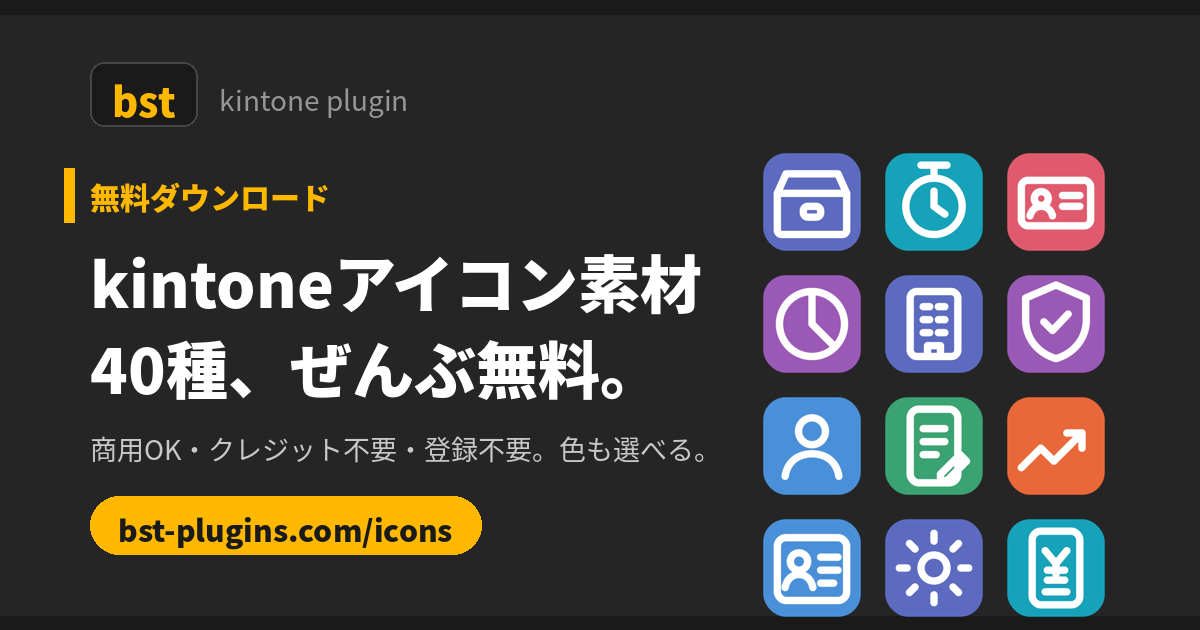
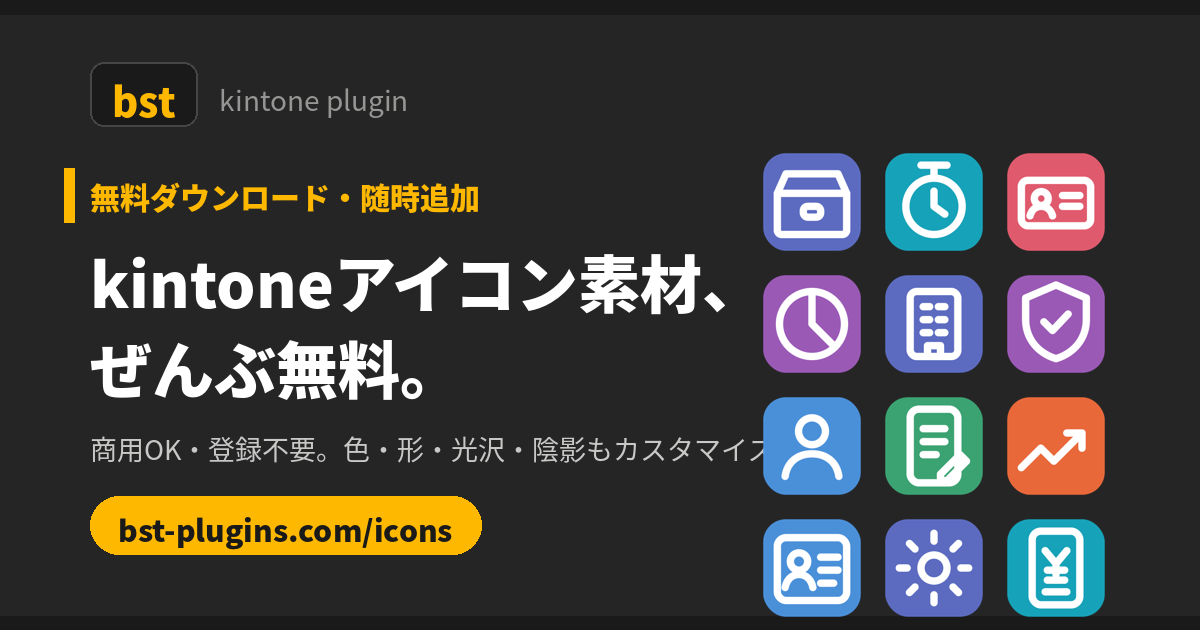
Add files via upload

diff --git a/icons.html b/icons.html
@@ -3,12 +3,14 @@
 <head>
 <meta charset="UTF-8">
 <meta name="viewport" content="width=device-width, initial-scale=1">
-<title>kintoneアプリアイコン素材 40種 無料配布（商用可・登録不要）｜bst</title>
-<meta name="description" content="kintoneのアプリアイコンにそのまま使える、フラットで見やすいアイコン素材40種を無料配布。商用利用OK・クレジット不要・登録不要。色変更してPNGダウンロードも可能。">
+<title>kintoneアプリアイコン素材 無料配布（商用可・カスタマイズ可・随時追加）｜bst</title>
+<meta name="description" content="kintoneのアプリアイコンにそのまま使える、フラットで見やすいアイコン素材を無料配布。商用利用OK・クレジット不要・登録不要。色・形・グラデーション・光沢・陰影を選んでPNG/SVGダウンロード。ラインナップは随時追加。">
 <link rel="canonical" href="https://bst-plugins.com/icons.html">
-<meta property="og:title" content="kintoneアプリアイコン素材 40種 無料配布｜bst">
-<meta property="og:description" content="商用可・登録不要。色を選んでワンクリックでダウンロード。kintoneのアプリ一覧が見違えます。">
+<meta property="og:title" content="kintoneアプリアイコン素材 無料配布（カスタマイズ可）｜bst">
+<meta property="og:description" content="商用OK・登録不要。色・形・光沢・陰影を選んで1クリックでダウンロード。ラインナップは随時追加。">
 <meta property="og:image" content="https://bst-plugins.com/og-icons.png">
+<meta property="og:image:width" content="1200">
+<meta property="og:image:height" content="630">
 <meta property="og:url" content="https://bst-plugins.com/icons.html">
 <meta property="og:type" content="website">
 <meta name="twitter:card" content="summary_large_image">
@@ -23,7 +25,7 @@
   gtag('config', 'G-XXXXXXXXXX');
   document.addEventListener('click', function(e){
     var a = e.target.closest && e.target.closest('a[href$=".zip"], .ic-dl');
-    if(a){ gtag('event', 'icon_download', { item: a.dataset && a.dataset.key || a.getAttribute('href') }); }
+    if(a){ gtag('event', 'icon_download', { item: (a.dataset && a.dataset.key) || a.getAttribute('href') }); }
   });
 </script>
 ▲▲ GA4ここまで ▲▲ -->
@@ -42,9 +44,10 @@ header{position:sticky;top:0;background:rgba(251,251,248,.92);backdrop-filter:bl
 .hero{padding:52px 0 34px;text-align:center;}
 .hero .kick{font-size:12.5px;font-weight:700;letter-spacing:.08em;color:var(--amber-d);}
 .hero h1{font-size:clamp(26px,4.4vw,40px);font-weight:900;letter-spacing:-.01em;margin:8px 0 10px;}
-.hero p{color:var(--mut);font-size:15px;max-width:640px;margin:0 auto;}
+.hero p{color:var(--mut);font-size:15px;max-width:660px;margin:0 auto;}
 .badges{display:flex;gap:10px;justify-content:center;flex-wrap:wrap;margin-top:16px;}
 .badge{background:#fff;border:1px solid var(--line);border-radius:999px;font-size:12.5px;font-weight:700;padding:7px 16px;}
+.badge.hl{background:var(--ink);color:var(--amber);border-color:var(--ink);}
 .dlrow{display:flex;gap:12px;justify-content:center;flex-wrap:wrap;margin:22px 0 6px;}
 .btn{display:inline-flex;align-items:center;gap:8px;border-radius:999px;font-weight:700;font-size:15px;padding:14px 26px;text-decoration:none;border:2px solid transparent;}
 .btn--amber{background:var(--amber);color:var(--ink);}
@@ -61,21 +64,30 @@ header{position:sticky;top:0;background:rgba(251,251,248,.92);backdrop-filter:bl
 .card .nm{font-size:12.5px;font-weight:700;margin-top:8px;}
 .card .ct{font-size:10.5px;color:var(--mut);}
 .count{font-size:12.5px;color:var(--mut);margin-bottom:10px;}
-/* modal */
-.ov{position:fixed;inset:0;background:rgba(37,37,37,.55);display:none;align-items:center;justify-content:center;z-index:200;padding:20px;}
+/* customizer modal */
+.ov{position:fixed;inset:0;background:rgba(37,37,37,.55);display:none;align-items:center;justify-content:center;z-index:200;padding:16px;}
 .ov.show{display:flex;}
-.modal{background:#fff;border-radius:20px;max-width:420px;width:100%;padding:28px;text-align:center;}
-.modal svg{width:120px;height:120px;}
-.modal h3{font-size:17px;font-weight:900;margin:10px 0 2px;}
-.modal .ct{font-size:12px;color:var(--mut);margin-bottom:14px;}
-.pal{display:flex;gap:8px;justify-content:center;flex-wrap:wrap;margin-bottom:18px;}
-.sw{width:30px;height:30px;border-radius:9px;cursor:pointer;border:3px solid transparent;}
+.modal{background:#fff;border-radius:20px;max-width:640px;width:100%;padding:26px;display:grid;grid-template-columns:200px 1fr;gap:24px;max-height:92vh;overflow:auto;}
+.mprev{text-align:center;}
+.mprev svg{width:160px;height:160px;filter:drop-shadow(0 8px 18px rgba(37,37,37,.14));}
+.mprev h3{font-size:16px;font-weight:900;margin-top:10px;}
+.mprev .ct{font-size:11.5px;color:var(--mut);}
+.opt{margin-bottom:14px;}
+.opt .lb{font-size:11.5px;font-weight:900;color:var(--mut);letter-spacing:.05em;margin-bottom:6px;}
+.pal{display:flex;gap:7px;flex-wrap:wrap;align-items:center;}
+.sw{width:27px;height:27px;border-radius:8px;cursor:pointer;border:3px solid transparent;}
 .sw.on{border-color:var(--ink);}
-.mrow{display:flex;gap:10px;justify-content:center;flex-wrap:wrap;}
+.custcol{width:27px;height:27px;padding:0;border:1.5px dashed var(--line);border-radius:8px;background:#fff;cursor:pointer;}
+.segs{display:flex;gap:6px;flex-wrap:wrap;}
+.seg{border:1.5px solid var(--line);background:#fff;border-radius:999px;padding:6px 13px;font-size:12px;font-weight:700;color:var(--mut);cursor:pointer;font-family:inherit;}
+.seg.on{background:var(--ink);color:#fff;border-color:var(--ink);}
+.mrow{display:flex;gap:10px;flex-wrap:wrap;margin-top:4px;align-items:center;}
 .mbtn{border:none;border-radius:999px;font-weight:700;font-size:13.5px;padding:11px 20px;cursor:pointer;font-family:inherit;}
 .mbtn.p{background:var(--amber);}
 .mbtn.g{background:#fff;border:1.5px solid var(--line);}
-.close{margin-top:14px;font-size:12.5px;color:var(--mut);cursor:pointer;background:none;border:none;font-family:inherit;}
+.sizesel{border:1.5px solid var(--line);border-radius:999px;padding:9px 12px;font-size:12.5px;font-weight:700;font-family:inherit;background:#fff;}
+.close{position:absolute;top:14px;right:18px;font-size:20px;color:var(--mut);cursor:pointer;background:none;border:none;}
+.modalwrap{position:relative;}
 .howto{background:var(--paper2);border-top:1px solid var(--line);border-bottom:1px solid var(--line);padding:44px 0;margin-top:40px;}
 .howto h2, .cta-sec h2{font-size:clamp(20px,3vw,28px);font-weight:900;margin-bottom:16px;}
 .steps{display:grid;grid-template-columns:repeat(auto-fit,minmax(230px,1fr));gap:14px;}
@@ -97,7 +109,7 @@ header{position:sticky;top:0;background:rgba(251,251,248,.92);backdrop-filter:bl
 footer{border-top:1px solid var(--line);padding:28px 0 36px;font-size:12.5px;color:var(--mut);}
 .frow{display:flex;gap:18px;flex-wrap:wrap;}
 .frow a{text-decoration:none;color:var(--mut);}
-@media(max-width:720px){.cta-card{grid-template-columns:1fr;}}
+@media(max-width:720px){.cta-card{grid-template-columns:1fr;}.modal{grid-template-columns:1fr;}}
 </style>
 </head>
 <body>
@@ -111,14 +123,14 @@ footer{border-top:1px solid var(--line);padding:28px 0 36px;font-size:12.5px;col
 
 <section class="hero"><div class="wrap">
   <div class="kick">FREE DOWNLOAD</div>
-  <h1>kintoneアプリアイコン素材<br>40種、ぜんぶ無料。</h1>
-  <p>「どのアプリか、パッと見で分からない」を解決する、フラットで見やすいアイコンセット。色を選んで1クリックでダウンロード。kintoneのポータルが見違えます。</p>
-  <div class="badges"><span class="badge">商用利用OK</span><span class="badge">クレジット不要</span><span class="badge">登録・メール不要</span><span class="badge">8色から選べる</span></div>
+  <h1>kintoneアプリアイコン素材、<br>ぜんぶ無料。</h1>
+  <p>「どのアプリか、パッと見で分からない」を解決する、フラットで見やすいアイコン集。<b>色・形・光沢・陰影まで自分好みにカスタマイズ</b>して、1クリックでダウンロードできます。</p>
+  <div class="badges"><span class="badge hl">現在 <span id="total">—</span> 種・随時追加</span><span class="badge">商用利用OK</span><span class="badge">クレジット不要</span><span class="badge">登録・メール不要</span></div>
   <div class="dlrow">
-    <a class="btn btn--amber" href="icons/bst-kintone-icons-png.zip" download>PNG一括ダウンロード（40種）↓</a>
+    <a class="btn btn--amber" href="icons/bst-kintone-icons-png.zip" download>PNG一括ダウンロード ↓</a>
     <a class="btn btn--ghost" href="icons/bst-kintone-icons-svg.zip" download>SVG一括ダウンロード ↓</a>
   </div>
-  <p class="note">個別に色を変えたい場合は、下のアイコンをクリック → 色を選んでダウンロード</p>
+  <p class="note">一括ZIPは標準色・フラットスタイル収録。カスタマイズしたい場合は、下のアイコンをクリック。</p>
 </div></section>
 
 <section><div class="wrap">
@@ -133,12 +145,13 @@ footer{border-top:1px solid var(--line);padding:28px 0 36px;font-size:12.5px;col
   </div>
   <div class="count" id="count"></div>
   <div class="grid" id="grid"></div>
+  <p class="note" style="text-align:left;margin-top:14px;">💡 「こんなアイコンが欲しい」のリクエストは <a href="mailto:[email redacted]?subject=%5Bbst%5D%20アイコンのリクエスト" style="color:var(--amber-d);font-weight:700;">こちら</a> からどうぞ。随時追加していきます。</p>
 </div></section>
 
 <section class="howto"><div class="wrap">
   <h2>kintoneアプリのアイコンを変える方法（30秒）</h2>
   <div class="steps">
-    <div class="step"><b>1. アイコンをダウンロード</b><p>使いたいアイコンをクリックし、色を選んでPNGをダウンロードします。</p></div>
+    <div class="step"><b>1. アイコンをダウンロード</b><p>使いたいアイコンをクリックし、色やスタイルを選んでPNGをダウンロードします。</p></div>
     <div class="step"><b>2. アプリの設定を開く</b><p>kintoneアプリの「設定」→ 左上のアプリアイコンをクリック。</p></div>
     <div class="step"><b>3. 画像をアップロード</b><p>「ファイルを選択」でダウンロードしたPNGを選んで保存。ポータルの一覧が一気に分かりやすくなります。</p></div>
   </div>
@@ -149,6 +162,7 @@ footer{border-top:1px solid var(--line);padding:28px 0 36px;font-size:12.5px;col
   <ul>
     <li>kintoneのアプリアイコン、社内資料、Webサイトなどで商用利用OK（無料）</li>
     <li>クレジット表記・利用報告は不要です</li>
+    <li>色や形のカスタマイズ・加工も自由です</li>
     <li>素材そのものの再配布・販売はご遠慮ください（加工後も同様）</li>
   </ul>
 </div></section>
@@ -170,37 +184,102 @@ footer{border-top:1px solid var(--line);padding:28px 0 36px;font-size:12.5px;col
 
 <footer><div class="wrap">
   <div class="frow">
-    <a href="index.html">ホーム</a><a href="icons.html">無料アイコン</a><a href="tokushoho.html">特定商取引法に基づく表記</a><a href="privacy.html">プライバシーポリシー</a>
+    <a href="index.html">ホーム</a><a href="icons.html">無料アイコン</a><a href="mailto:[email redacted]?subject=%5Bbst%5D%20お問い合わせ">お問い合わせ</a><a href="tokushoho.html">特定商取引法に基づく表記</a><a href="privacy.html">プライバシーポリシー</a>
   </div>
   <div style="margin-top:10px;">© bst — kintoneプラグイン開発</div>
 </div></footer>
 
-<div class="ov" id="ov"><div class="modal">
-  <div id="m-svg"></div>
-  <h3 id="m-name"></h3>
-  <div class="ct" id="m-cat"></div>
-  <div class="pal" id="m-pal"></div>
-  <div class="mrow">
-    <button class="mbtn p ic-dl" id="dl-png">PNGをダウンロード ↓</button>
-    <button class="mbtn g ic-dl" id="dl-svg">SVG ↓</button>
+<div class="ov" id="ov"><div class="modal modalwrap">
+  <button class="close" id="m-close">✕</button>
+  <div class="mprev">
+    <div id="m-svg"></div>
+    <h3 id="m-name"></h3>
+    <div class="ct" id="m-cat"></div>
   </div>
-  <button class="close" id="m-close">閉じる</button>
+  <div>
+    <div class="opt"><div class="lb">カラー</div>
+      <div class="pal" id="m-pal"></div>
+    </div>
+    <div class="opt"><div class="lb">かたち</div>
+      <div class="segs" id="m-shape">
+        <button class="seg on" data-v="round">角丸</button>
+        <button class="seg" data-v="circle">まる</button>
+        <button class="seg" data-v="square">四角</button>
+      </div>
+    </div>
+    <div class="opt"><div class="lb">スタイル（組み合わせOK）</div>
+      <div class="segs">
+        <button class="seg" id="m-grad">グラデーション</button>
+        <button class="seg" id="m-gloss">光沢</button>
+        <button class="seg" id="m-shadow">陰影</button>
+      </div>
+    </div>
+    <div class="opt"><div class="lb">線の太さ</div>
+      <div class="segs" id="m-sw">
+        <button class="seg" data-v="1.4">細め</button>
+        <button class="seg on" data-v="1.7">標準</button>
+        <button class="seg" data-v="2.1">太め</button>
+      </div>
+    </div>
+    <div class="mrow">
+      <button class="mbtn p ic-dl" id="dl-png">PNGをダウンロード ↓</button>
+      <select class="sizesel" id="m-size"><option value="128">128px</option><option value="256" selected>256px</option><option value="512">512px</option></select>
+      <button class="mbtn g ic-dl" id="dl-svg">SVG ↓</button>
+    </div>
+  </div>
 </div></div>
 
 <script>
 const PALETTE = {"blue": "#4A90D9", "orange": "#E8683A", "green": "#3BA272", "amber": "#E6A23C", "purple": "#9B59B6", "red": "#E05A6D", "teal": "#16A2B8", "navy": "#5C6BC0"};
-const STROKE = 'stroke="#fff" stroke-width="1.7" fill="none" stroke-linecap="round" stroke-linejoin="round"';
 const ICONS = [{"key": "customer", "ja": "顧客管理", "cat": "営業", "color": "blue", "inner": "<circle cx=\"12\" cy=\"8.6\" r=\"3.1\"/><path d=\"M5.8 19c.[phone redacted].2s5.[phone redacted]\"/>"}, {"key": "company", "ja": "取引先", "cat": "営業", "color": "navy", "inner": "<rect x=\"6.5\" y=\"4.5\" width=\"11\" height=\"15\" rx=\"1.5\"/><line x1=\"9.5\" y1=\"8\" x2=\"11\" y2=\"8\"/><line x1=\"13\" y1=\"8\" x2=\"14.5\" y2=\"8\"/><line x1=\"9.5\" y1=\"11\" x2=\"11\" y2=\"11\"/><line x1=\"13\" y1=\"11\" x2=\"14.5\" y2=\"11\"/><line x1=\"9.5\" y1=\"14\" x2=\"11\" y2=\"14\"/><line x1=\"13\" y1=\"14\" x2=\"14.5\" y2=\"14\"/><path d=\"M10.5 19.5v-2.5h3v2.5\"/>"}, {"key": "deal", "ja": "案件管理", "cat": "営業", "color": "orange", "inner": "<path d=\"M4 17l4.5-4.5 3 3L18 9\"/><path d=\"M14.5 9H18v3.5\"/>"}, {"key": "estimate", "ja": "見積管理", "cat": "営業", "color": "teal", "inner": "<rect x=\"6.5\" y=\"3.5\" width=\"11\" height=\"17\" rx=\"2\"/><path d=\"M9.5 8l2.5 3 2.5-3\"/><line x1=\"12\" y1=\"11\" x2=\"12\" y2=\"13.5\"/><line x1=\"10\" y1=\"12.5\" x2=\"14\" y2=\"12.5\"/><line x1=\"10\" y1=\"14.8\" x2=\"14\" y2=\"14.8\"/><line x1=\"9.5\" y1=\"17.5\" x2=\"14.5\" y2=\"17.5\"/>"}, {"key": "order", "ja": "受注管理", "cat": "営業", "color": "green", "inner": "<path d=\"M4.5 8h15l-1.5 9.5h-12z\"/><line x1=\"4.5\" y1=\"8\" x2=\"3.5\" y2=\"5\"/><circle cx=\"9\" cy=\"20.3\" r=\"1\"/><circle cx=\"15\" cy=\"20.3\" r=\"1\"/>"}, {"key": "purchase", "ja": "発注管理", "cat": "営業", "color": "amber", "inner": "<path d=\"M20 4L10.5 13.5\"/><path d=\"M20 4l-6 16-3.5-6.5L4 10z\"/>"}, {"key": "contract", "ja": "契約管理", "cat": "営業", "color": "purple", "inner": "<path d=\"M12 3l7 3v5c0 [phone redacted]-9V6z\"/><path d=\"M9.2 11.5l2 2 3.6-3.8\"/>"}, {"key": "bizcard", "ja": "名刺管理", "cat": "営業", "color": "red", "inner": "<rect x=\"4\" y=\"7\" width=\"16\" height=\"10.5\" rx=\"1.5\"/><circle cx=\"8.6\" cy=\"11.2\" r=\"1.6\"/><path d=\"M6 15.2c.[phone redacted].2s2.2.7 2.6 2.2\"/><line x1=\"13.5\" y1=\"10.5\" x2=\"17.5\" y2=\"10.5\"/><line x1=\"13.5\" y1=\"13\" x2=\"17.5\" y2=\"13\"/>"}, {"key": "inquiry", "ja": "問い合わせ", "cat": "営業", "color": "teal", "inner": "<path d=\"M6 5.5h12a2 2 0 0 1 2 2v7a2 2 0 0 1-2 2h-7l-4 3.5v-3.5H6a2 2 0 0 1-2-2v-7a2 2 0 0 1 2-2z\"/><path d=\"M10.4 9.5a1.[phone redacted].6c-.7.4-1 .8-1 1.6\"/><circle cx=\"12\" cy=\"14.6\" r=\"0.35\"/>"}, {"key": "support", "ja": "サポート窓口", "cat": "営業", "color": "navy", "inner": "<path d=\"M5 13v-1.5a7 7 0 0 1 14 0V13\"/><rect x=\"4\" y=\"12.5\" width=\"3\" height=\"4.5\" rx=\"1.5\"/><rect x=\"17\" y=\"12.5\" width=\"3\" height=\"4.5\" rx=\"1.5\"/><path d=\"M18.5 17c0 [phone redacted]\"/>"}, {"key": "task", "ja": "タスク管理", "cat": "業務", "color": "blue", "inner": "<rect x=\"4.5\" y=\"4.5\" width=\"15\" height=\"15\" rx=\"3\"/><path d=\"M8.5 12.2l2.[phone redacted]\"/>"}, {"key": "project", "ja": "プロジェクト", "cat": "業務", "color": "purple", "inner": "<rect x=\"4\" y=\"5.5\" width=\"4.5\" height=\"13\" rx=\"1.5\"/><rect x=\"10\" y=\"5.5\" width=\"4.5\" height=\"8.5\" rx=\"1.5\"/><rect x=\"16\" y=\"5.5\" width=\"4.5\" height=\"11\" rx=\"1.5\"/>"}, {"key": "schedule", "ja": "スケジュール", "cat": "業務", "color": "red", "inner": "<rect x=\"4.5\" y=\"5.5\" width=\"15\" height=\"14\" rx=\"2\"/><line x1=\"4.5\" y1=\"9.5\" x2=\"19.5\" y2=\"9.5\"/><line x1=\"8.5\" y1=\"3.8\" x2=\"8.5\" y2=\"7\"/><line x1=\"15.5\" y1=\"3.8\" x2=\"15.5\" y2=\"7\"/><circle cx=\"12\" cy=\"14.5\" r=\"0.5\"/><circle cx=\"8.5\" cy=\"14.5\" r=\"0.5\"/><circle cx=\"15.5\" cy=\"14.5\" r=\"0.5\"/>"}, {"key": "daily", "ja": "日報", "cat": "業務", "color": "green", "inner": "<rect x=\"6.5\" y=\"3.5\" width=\"11\" height=\"17\" rx=\"2\"/><line x1=\"9.5\" y1=\"8\" x2=\"14.5\" y2=\"8\"/><line x1=\"9.5\" y1=\"11\" x2=\"14.5\" y2=\"11\"/><line x1=\"9.5\" y1=\"14\" x2=\"12.5\" y2=\"14\"/><path d=\"M13.5 18.5l4.[phone redacted].5H13.5z\"/>"}, {"key": "minutes", "ja": "議事録", "cat": "業務", "color": "amber", "inner": "<rect x=\"6.5\" y=\"3.5\" width=\"11\" height=\"17\" rx=\"2\"/><path d=\"M9.5 3.5v3h5v-3\"/><line x1=\"9.5\" y1=\"10.5\" x2=\"14.5\" y2=\"10.5\"/><line x1=\"9.5\" y1=\"13.5\" x2=\"14.5\" y2=\"13.5\"/><line x1=\"9.5\" y1=\"16.5\" x2=\"12.5\" y2=\"16.5\"/>"}, {"key": "meeting", "ja": "会議室予約", "cat": "業務", "color": "teal", "inner": "<circle cx=\"12\" cy=\"12\" r=\"3\"/><circle cx=\"5.5\" cy=\"7\" r=\"1.6\"/><circle cx=\"18.5\" cy=\"7\" r=\"1.6\"/><circle cx=\"5.5\" cy=\"17\" r=\"1.6\"/><circle cx=\"18.5\" cy=\"17\" r=\"1.6\"/>"}, {"key": "workflow", "ja": "稟議・申請", "cat": "業務", "color": "navy", "inner": "<rect x=\"8\" y=\"3.5\" width=\"8\" height=\"4.5\" rx=\"1.5\"/><rect x=\"4\" y=\"15.5\" width=\"6\" height=\"4.5\" rx=\"1.5\"/><rect x=\"14\" y=\"15.5\" width=\"6\" height=\"4.5\" rx=\"1.5\"/><line x1=\"12\" y1=\"8\" x2=\"12\" y2=\"11.5\"/><path d=\"M7 15.5v-2h10v2\"/>"}, {"key": "progress", "ja": "進捗管理", "cat": "業務", "color": "orange", "inner": "<circle cx=\"12\" cy=\"12\" r=\"7.5\"/><path d=\"M12 4.5A7.[phone redacted]\"/><path d=\"M12 8.5v3.5l2.8 2\"/>"}, {"key": "manual", "ja": "マニュアル", "cat": "業務", "color": "blue", "inner": "<path d=\"M12 6c-[phone redacted]-2v13.5c2.[phone redacted]-2V4c-[phone redacted] 2z\"/><line x1=\"12\" y1=\"6\" x2=\"12\" y2=\"19.2\"/>"}, {"key": "inspection", "ja": "点検記録", "cat": "業務", "color": "green", "inner": "<rect x=\"5.5\" y=\"4.5\" width=\"13\" height=\"15.5\" rx=\"2\"/><path d=\"M9 4.5v-1h6v1\"/><path d=\"M8.5 12l2.[phone redacted]\"/><line x1=\"8.5\" y1=\"17\" x2=\"15.5\" y2=\"17\"/>"}, {"key": "inventory", "ja": "在庫管理", "cat": "業務", "color": "amber", "inner": "<path d=\"M4.5 9.5h15V19a1 1 0 0 1-1 1h-13a1 1 0 0 1-1-1z\"/><path d=\"M6 9.5L7.5 5h9L18 9.5\"/><line x1=\"10\" y1=\"13\" x2=\"14\" y2=\"13\"/>"}, {"key": "shipping", "ja": "配送管理", "cat": "業務", "color": "red", "inner": "<rect x=\"3.5\" y=\"7\" width=\"10\" height=\"9\" rx=\"1.5\"/><path d=\"M13.5 10h4l2.5 3v3h-2.5\"/><circle cx=\"7.5\" cy=\"17.8\" r=\"1.6\"/><circle cx=\"16.5\" cy=\"17.8\" r=\"1.6\"/>"}, {"key": "equipment", "ja": "設備管理", "cat": "業務", "color": "navy", "inner": "<circle cx=\"12\" cy=\"12\" r=\"3\"/><line x1=\"18.2\" y1=\"12.0\" x2=\"20\" y2=\"12\"/><line x1=\"5.8\" y1=\"12.0\" x2=\"4\" y2=\"12\"/><line x1=\"12.0\" y1=\"18.2\" x2=\"12\" y2=\"20\"/><line x1=\"12.0\" y1=\"5.8\" x2=\"12\" y2=\"4\"/><line x1=\"16.3834\" y1=\"16.3834\" x2=\"17.656\" y2=\"17.656\"/><line x1=\"7.6166\" y1=\"16.3834\" x2=\"6.344\" y2=\"17.656\"/><line x1=\"16.3834\" y1=\"7.6166\" x2=\"17.656\" y2=\"6.344\"/><line x1=\"7.6166\" y1=\"7.6166\" x2=\"6.344\" y2=\"6.344\"/>"}, {"key": "vehicle", "ja": "車両管理", "cat": "業務", "color": "teal", "inner": "<path d=\"M5 15l1.5-5a2 [phone redacted].5h7.2A2 [phone redacted] 10l1.5 5\"/><rect x=\"4\" y=\"15\" width=\"16\" height=\"3.5\" rx=\"1.5\"/><circle cx=\"7.5\" cy=\"18.5\" r=\"1.4\"/><circle cx=\"16.5\" cy=\"18.5\" r=\"1.4\"/>"}, {"key": "sales", "ja": "売上管理", "cat": "経理", "color": "green", "inner": "<line x1=\"5\" y1=\"19\" x2=\"19\" y2=\"19\"/><rect x=\"6.5\" y=\"12\" width=\"2.8\" height=\"7\" rx=\"1.5\"/><rect x=\"10.6\" y=\"8.5\" width=\"2.8\" height=\"10.5\" rx=\"1.5\"/><rect x=\"14.7\" y=\"5\" width=\"2.8\" height=\"14\" rx=\"1.5\"/>"}, {"key": "invoice", "ja": "請求管理", "cat": "経理", "color": "blue", "inner": "<rect x=\"6.5\" y=\"3.5\" width=\"11\" height=\"17\" rx=\"2\"/><path d=\"M9.7 8.2l2.[phone redacted]\"/><line x1=\"12\" y1=\"11\" x2=\"12\" y2=\"13.8\"/><line x1=\"10\" y1=\"12\" x2=\"14\" y2=\"12\"/><line x1=\"10\" y1=\"14.2\" x2=\"14\" y2=\"14.2\"/>"}, {"key": "expense", "ja": "経費精算", "cat": "経理", "color": "orange", "inner": "<path d=\"M6 3.5h12V20l-[phone redacted]-2 1.4z\"/><line x1=\"9\" y1=\"8.5\" x2=\"15\" y2=\"8.5\"/><line x1=\"9\" y1=\"11.5\" x2=\"15\" y2=\"11.5\"/><line x1=\"9\" y1=\"14.5\" x2=\"12.5\" y2=\"14.5\"/>"}, {"key": "budget", "ja": "予算管理", "cat": "経理", "color": "purple", "inner": "<circle cx=\"12\" cy=\"12\" r=\"7.5\"/><path d=\"M12 4.5V12l5.3 5.3\"/>"}, {"key": "asset", "ja": "資産管理", "cat": "経理", "color": "navy", "inner": "<path d=\"M4 10h16v8.5a1 1 0 0 1-1 1H5a1 1 0 0 1-1-1z\"/><path d=\"M4 10l2-4.5h12L20 10\"/><rect x=\"10\" y=\"13\" width=\"4\" height=\"2.5\" rx=\"1\"/>"}, {"key": "payroll", "ja": "給与計算", "cat": "経理", "color": "red", "inner": "<rect x=\"4\" y=\"6.5\" width=\"16\" height=\"11.5\" rx=\"2\"/><path d=\"M9.8 9.8l2.[phone redacted]\"/><line x1=\"12\" y1=\"12.5\" x2=\"12\" y2=\"15.2\"/><line x1=\"10.2\" y1=\"13.4\" x2=\"13.8\" y2=\"13.4\"/>"}, {"key": "attendance", "ja": "勤怠管理", "cat": "人事", "color": "teal", "inner": "<circle cx=\"12\" cy=\"13\" r=\"6.5\"/><path d=\"M12 9.5V13l2.5 1.8\"/><line x1=\"9\" y1=\"3.5\" x2=\"15\" y2=\"3.5\"/><line x1=\"12\" y1=\"3.5\" x2=\"12\" y2=\"6\"/>"}, {"key": "employee", "ja": "社員名簿", "cat": "人事", "color": "blue", "inner": "<rect x=\"4\" y=\"5\" width=\"16\" height=\"14.5\" rx=\"2\"/><circle cx=\"9\" cy=\"10.5\" r=\"2\"/><path d=\"M5.8 16.5c.[phone redacted]-3s2.8 1 3.2 3\"/><line x1=\"14\" y1=\"9.5\" x2=\"18\" y2=\"9.5\"/><line x1=\"14\" y1=\"12.5\" x2=\"18\" y2=\"12.5\"/><line x1=\"14\" y1=\"15.5\" x2=\"17\" y2=\"15.5\"/>"}, {"key": "recruit", "ja": "採用管理", "cat": "人事", "color": "orange", "inner": "<circle cx=\"12\" cy=\"8.6\" r=\"3.1\"/><path d=\"M5.8 19c.[phone redacted].2s5.[phone redacted]\"/><path d=\"M16.5 6.5l1.[phone redacted]\"/>"}, {"key": "training", "ja": "研修管理", "cat": "人事", "color": "green", "inner": "<path d=\"M3.5 8.5L12 4.5l8.5 4L12 12.5z\"/><path d=\"M7 10.8v4.2c0 [phone redacted].5s5-1.1 5-2.5v-4.2\"/><line x1=\"20.5\" y1=\"8.5\" x2=\"20.5\" y2=\"13\"/>"}, {"key": "survey", "ja": "アンケート", "cat": "人事", "color": "purple", "inner": "<rect x=\"5.5\" y=\"4\" width=\"13\" height=\"16\" rx=\"2\"/><path d=\"M8.3 8.3l1.2 1.2 2-2.2\"/><line x1=\"13\" y1=\"8.8\" x2=\"16.5\" y2=\"8.8\"/><path d=\"M8.3 13l1.2 1.2 2-2.2\"/><line x1=\"13\" y1=\"13.5\" x2=\"16.5\" y2=\"13.5\"/>"}, {"key": "goal", "ja": "目標管理", "cat": "人事", "color": "red", "inner": "<circle cx=\"12\" cy=\"12\" r=\"7.5\"/><circle cx=\"12\" cy=\"12\" r=\"4.3\"/><circle cx=\"12\" cy=\"12\" r=\"1.2\"/>"}, {"key": "fax", "ja": "FAX・書類受付", "cat": "汎用", "color": "navy", "inner": "<rect x=\"7\" y=\"3.5\" width=\"10\" height=\"5\" rx=\"1.5\"/><rect x=\"4.5\" y=\"8.5\" width=\"15\" height=\"8\" rx=\"1.5\"/><rect x=\"8\" y=\"13.5\" width=\"8\" height=\"6.5\" rx=\"1\"/><line x1=\"10\" y1=\"16\" x2=\"14\" y2=\"16\"/><line x1=\"10\" y1=\"18\" x2=\"14\" y2=\"18\"/>"}, {"key": "mailbox", "ja": "メール管理", "cat": "汎用", "color": "amber", "inner": "<rect x=\"4\" y=\"6\" width=\"16\" height=\"12.5\" rx=\"2\"/><path d=\"M4.5 7l7.5 6 7.5-6\"/>"}, {"key": "idea", "ja": "改善提案", "cat": "汎用", "color": "orange", "inner": "<path d=\"M12 3.8a5.[phone redacted].2c.[phone redacted] 2v.5h4v-.5c0-.8.5-1.5 1.2-2A5.[phone redacted].8z\"/><line x1=\"10.5\" y1=\"19.3\" x2=\"13.5\" y2=\"19.3\"/><line x1=\"11\" y1=\"21\" x2=\"13\" y2=\"21\"/>"}, {"key": "security", "ja": "入退室管理", "cat": "汎用", "color": "red", "inner": "<rect x=\"6\" y=\"10.5\" width=\"12\" height=\"9\" rx=\"2\"/><path d=\"M8.5 10.5V8a3.[phone redacted] 0v2.5\"/><circle cx=\"12\" cy=\"14.6\" r=\"1.1\"/><line x1=\"12\" y1=\"15.7\" x2=\"12\" y2=\"17\"/>"}];
-function svgOf(colorHex, inner, attrs=''){
-  return '<svg xmlns="http://www.w3.org/2000/svg" viewBox="0 0 24 24" '+attrs+'><rect x="0.75" y="0.75" width="22.5" height="22.5" rx="5.2" fill="'+colorHex+'"/><g '+STROKE+'>'+inner+'</g></svg>';
+let uid=0;
+function lighten(hex,amt){
+  const n=parseInt(hex.slice(1),16);
+  const r=Math.min(255,(n>>16)+amt), g=Math.min(255,((n>>8)&255)+amt), b=Math.min(255,(n&255)+amt);
+  return '#'+((r<<16)|(g<<8)|b).toString(16).padStart(6,'0');
+}
+function darken(hex,amt){
+  const n=parseInt(hex.slice(1),16);
+  const r=Math.max(0,(n>>16)-amt), g=Math.max(0,((n>>8)&255)-amt), b=Math.max(0,(n&255)-amt);
+  return '#'+((r<<16)|(g<<8)|b).toString(16).padStart(6,'0');
+}
+function svgOf(colorHex, inner, o){
+  o = o || {};
+  const shape = o.shape||'round';
+  const rx = shape==='circle' ? 11.25 : (shape==='square' ? 1.6 : 5.2);
+  const sw = o.sw||1.7;
+  const id = 'g'+(uid++);
+  let defs='', bgFill=colorHex, extra='';
+  if(o.grad){
+    defs += '<linearGradient id="'+id+'gr" x1="0" y1="0" x2="0" y2="1"><stop offset="0" stop-color="'+lighten(colorHex,34)+'"/><stop offset="1" stop-color="'+darken(colorHex,12)+'"/></linearGradient>';
+    bgFill='url(#'+id+'gr)';
+  }
+  const bgRect='<rect x="0.75" y="0.75" width="22.5" height="22.5" rx="'+rx+'"/>';
+  if(o.gloss){
+    defs += '<clipPath id="'+id+'cp">'+bgRect+'</clipPath>';
+    extra += '<rect x="0.75" y="0.75" width="22.5" height="10.6" fill="#fff" opacity="0.16" clip-path="url(#'+id+'cp)"/>';
+  }
+  let shadowBg='', shadowGlyph='';
+  if(o.shadow){
+    shadowBg = '<rect x="0.75" y="1.7" width="22.5" height="22.5" rx="'+rx+'" fill="'+darken(colorHex,46)+'" opacity="0.55"/>';
+    shadowGlyph = '<g stroke="#000" opacity="0.22" fill="none" stroke-width="'+sw+'" stroke-linecap="round" stroke-linejoin="round" transform="translate(0,0.85)">'+inner+'</g>';
+  }
+  return '<svg xmlns="http://www.w3.org/2000/svg" viewBox="0 0 24 24"'+(o.size?(' width="'+o.size+'" height="'+o.size+'"'):'')+'>'
+    +(defs?('<defs>'+defs+'</defs>'):'')
+    + shadowBg
+    +'<rect x="0.75" y="0.75" width="22.5" height="22.5" rx="'+rx+'" fill="'+bgFill+'"/>'
+    + extra + shadowGlyph
+    +'<g stroke="#fff" fill="none" stroke-width="'+sw+'" stroke-linecap="round" stroke-linejoin="round">'+inner+'</g>'
+    +'</svg>';
 }
 const grid=document.getElementById('grid'), q=document.getElementById('q'), count=document.getElementById('count');
+document.getElementById('total').textContent = ICONS.length;
 let cat='all';
 function render(){
   const kw=q.value.trim();
   const list=ICONS.filter(i=>(cat==='all'||i.cat===cat)&&(kw===''||i.ja.includes(kw)||i.key.includes(kw)));
   grid.innerHTML=list.map(i=>'<div class="card" data-key="'+i.key+'">'+svgOf(PALETTE[i.color],i.inner)+'<div class="nm">'+i.ja+'</div><div class="ct">'+i.cat+'</div></div>').join('');
-  count.textContent=list.length+'件のアイコン';
+  count.textContent=list.length+'件のアイコン（クリックでカスタマイズ）';
 }
 document.querySelectorAll('.tab').forEach(t=>t.addEventListener('click',()=>{
   document.querySelectorAll('.tab').forEach(x=>x.classList.remove('on')); t.classList.add('on');
@@ -208,43 +287,67 @@ document.querySelectorAll('.tab').forEach(t=>t.addEventListener('click',()=>{
 }));
 q.addEventListener('input',render);
 
-// modal
+// ===== カスタマイザ =====
 const ov=document.getElementById('ov');
-let cur=null, curColor=null;
+let cur=null;
+let opt={colorHex:'#4A90D9', shape:'round', grad:false, gloss:false, shadow:false, sw:1.7};
+function paintPal(){
+  document.getElementById('m-pal').innerHTML =
+    Object.entries(PALETTE).map(([k,v])=>'<div class="sw'+(v===opt.colorHex?' on':'')+'" data-c="'+v+'" style="background:'+v+'"></div>').join('')
+    +'<input type="color" class="custcol" id="custcol" value="'+opt.colorHex+'" title="好きな色を選ぶ">';
+  document.getElementById('custcol').addEventListener('input',e=>{opt.colorHex=e.target.value;update();});
+}
+function update(){
+  document.getElementById('m-svg').innerHTML=svgOf(opt.colorHex,cur.inner,opt);
+  document.querySelectorAll('#m-pal .sw').forEach(s=>s.classList.toggle('on',s.dataset.c===opt.colorHex));
+  document.getElementById('m-grad').classList.toggle('on',opt.grad);
+  document.getElementById('m-gloss').classList.toggle('on',opt.gloss);
+  document.getElementById('m-shadow').classList.toggle('on',opt.shadow);
+  document.querySelectorAll('#m-shape .seg').forEach(s=>s.classList.toggle('on',s.dataset.v===opt.shape));
+  document.querySelectorAll('#m-sw .seg').forEach(s=>s.classList.toggle('on',parseFloat(s.dataset.v)===opt.sw));
+}
 grid.addEventListener('click',e=>{
   const c=e.target.closest('.card'); if(!c)return;
-  cur=ICONS.find(i=>i.key===c.dataset.key); curColor=cur.color;
-  openModal();
-});
-function openModal(){
-  document.getElementById('m-svg').innerHTML=svgOf(PALETTE[curColor],cur.inner);
+  cur=ICONS.find(i=>i.key===c.dataset.key);
+  opt.colorHex=PALETTE[cur.color];
   document.getElementById('m-name').textContent=cur.ja;
-  document.getElementById('m-cat').textContent=cur.cat+'／色を選んでダウンロードできます';
-  document.getElementById('m-pal').innerHTML=Object.entries(PALETTE).map(([k,v])=>'<div class="sw'+(k===curColor?' on':'')+'" data-c="'+k+'" style="background:'+v+'"></div>').join('');
+  document.getElementById('m-cat').textContent=cur.cat;
+  paintPal(); update();
   ov.classList.add('show');
-}
-document.getElementById('m-pal').addEventListener('click',e=>{
-  const s=e.target.closest('.sw'); if(!s)return; curColor=s.dataset.c; openModal();
 });
+document.getElementById('m-pal').addEventListener('click',e=>{
+  const s=e.target.closest('.sw'); if(!s)return; opt.colorHex=s.dataset.c; update();
+});
+document.getElementById('m-shape').addEventListener('click',e=>{
+  const s=e.target.closest('.seg'); if(!s)return; opt.shape=s.dataset.v; update();
+});
+document.getElementById('m-sw').addEventListener('click',e=>{
+  const s=e.target.closest('.seg'); if(!s)return; opt.sw=parseFloat(s.dataset.v); update();
+});
+document.getElementById('m-grad').addEventListener('click',()=>{opt.grad=!opt.grad;update();});
+document.getElementById('m-gloss').addEventListener('click',()=>{opt.gloss=!opt.gloss;update();});
+document.getElementById('m-shadow').addEventListener('click',()=>{opt.shadow=!opt.shadow;update();});
 document.getElementById('m-close').addEventListener('click',()=>ov.classList.remove('show'));
 ov.addEventListener('click',e=>{ if(e.target===ov) ov.classList.remove('show'); });
+function dl(href,name){ const a=document.createElement('a'); a.href=href; a.download=name; document.body.appendChild(a); a.click(); a.remove(); }
 document.getElementById('dl-svg').addEventListener('click',()=>{
-  const blob=new Blob([svgOf(PALETTE[curColor],cur.inner)],{type:'image/svg+xml'});
-  dl(URL.createObjectURL(blob),'kintone-icon_'+cur.key+'_'+curColor+'.svg');
+  const blob=new Blob([svgOf(opt.colorHex,cur.inner,opt)],{type:'image/svg+xml'});
+  dl(URL.createObjectURL(blob),'kintone-icon_'+cur.key+'.svg');
 });
 document.getElementById('dl-png').addEventListener('click',()=>{
-  const img=new Image();
-  const blob=new Blob([svgOf(PALETTE[curColor],cur.inner,'width="256" height="256"')],{type:'image/svg+xml'});
+  const size=parseInt(document.getElementById('m-size').value,10);
+  const o=Object.assign({},opt,{size:size});
+  const blob=new Blob([svgOf(opt.colorHex,cur.inner,o)],{type:'image/svg+xml'});
   const url=URL.createObjectURL(blob);
+  const img=new Image();
   img.onload=()=>{
-    const cv=document.createElement('canvas'); cv.width=256; cv.height=256;
-    cv.getContext('2d').drawImage(img,0,0,256,256);
-    cv.toBlob(b=>dl(URL.createObjectURL(b),'kintone-icon_'+cur.key+'_'+curColor+'.png'),'image/png');
+    const cv=document.createElement('canvas'); cv.width=size; cv.height=size;
+    cv.getContext('2d').drawImage(img,0,0,size,size);
+    cv.toBlob(b=>dl(URL.createObjectURL(b),'kintone-icon_'+cur.key+'_'+size+'.png'),'image/png');
     URL.revokeObjectURL(url);
   };
   img.src=url;
 });
-function dl(href,name){ const a=document.createElement('a'); a.href=href; a.download=name; document.body.appendChild(a); a.click(); a.remove(); }
 render();
 </script>
 </body>

diff --git a/index.html b/index.html
@@ -223,8 +223,8 @@ footer{border-top:1px solid var(--line);padding:30px 0 40px;font-size:12.5px;col
   <div class="iconbn">
     <div>
       <div style="font-size:12px;font-weight:700;letter-spacing:.08em;color:var(--amber);">FREE</div>
-      <h2>kintoneアプリアイコン素材 40種、無料配布中</h2>
-      <p>商用OK・クレジット不要・登録不要。色を選んで1クリックでダウンロード。まずは気軽にどうぞ。</p>
+      <h2>kintoneアプリアイコン素材、無料配布中</h2>
+      <p>商用OK・クレジット不要・登録不要。色・形・光沢・陰影をカスタマイズして1クリックでダウンロード。ラインナップは随時追加中。</p>
     </div>
     <a class="bt bt-amber" href="icons.html">アイコンをもらう →</a>
   </div>